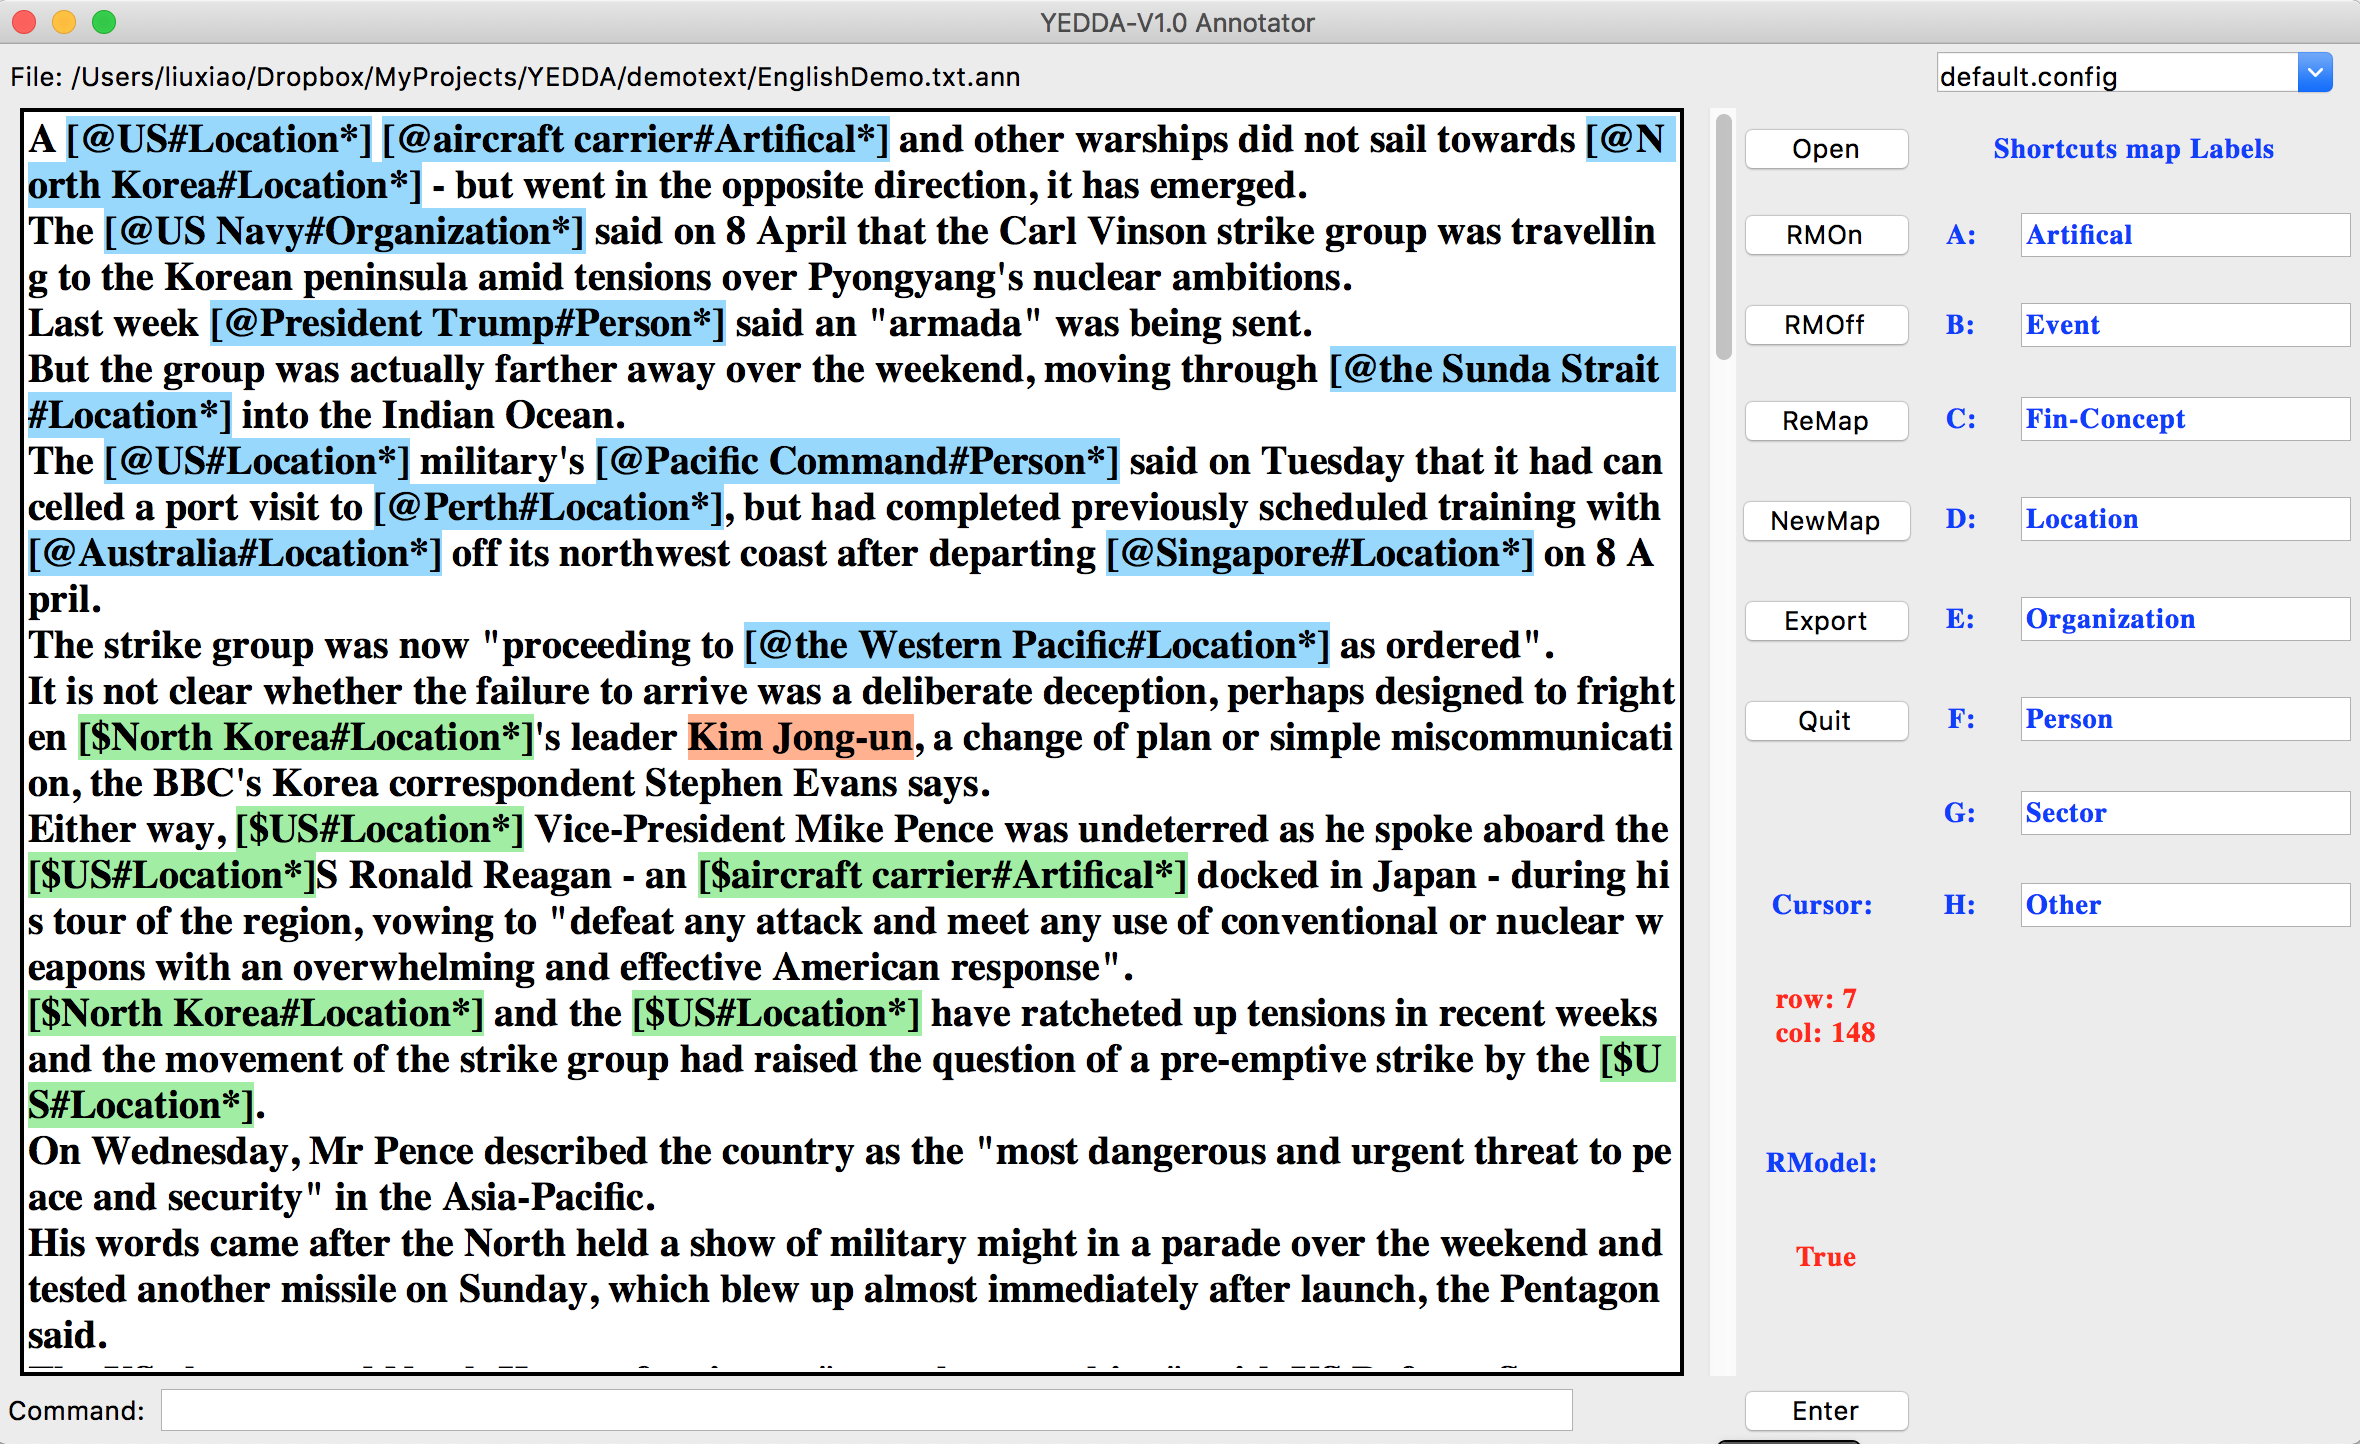
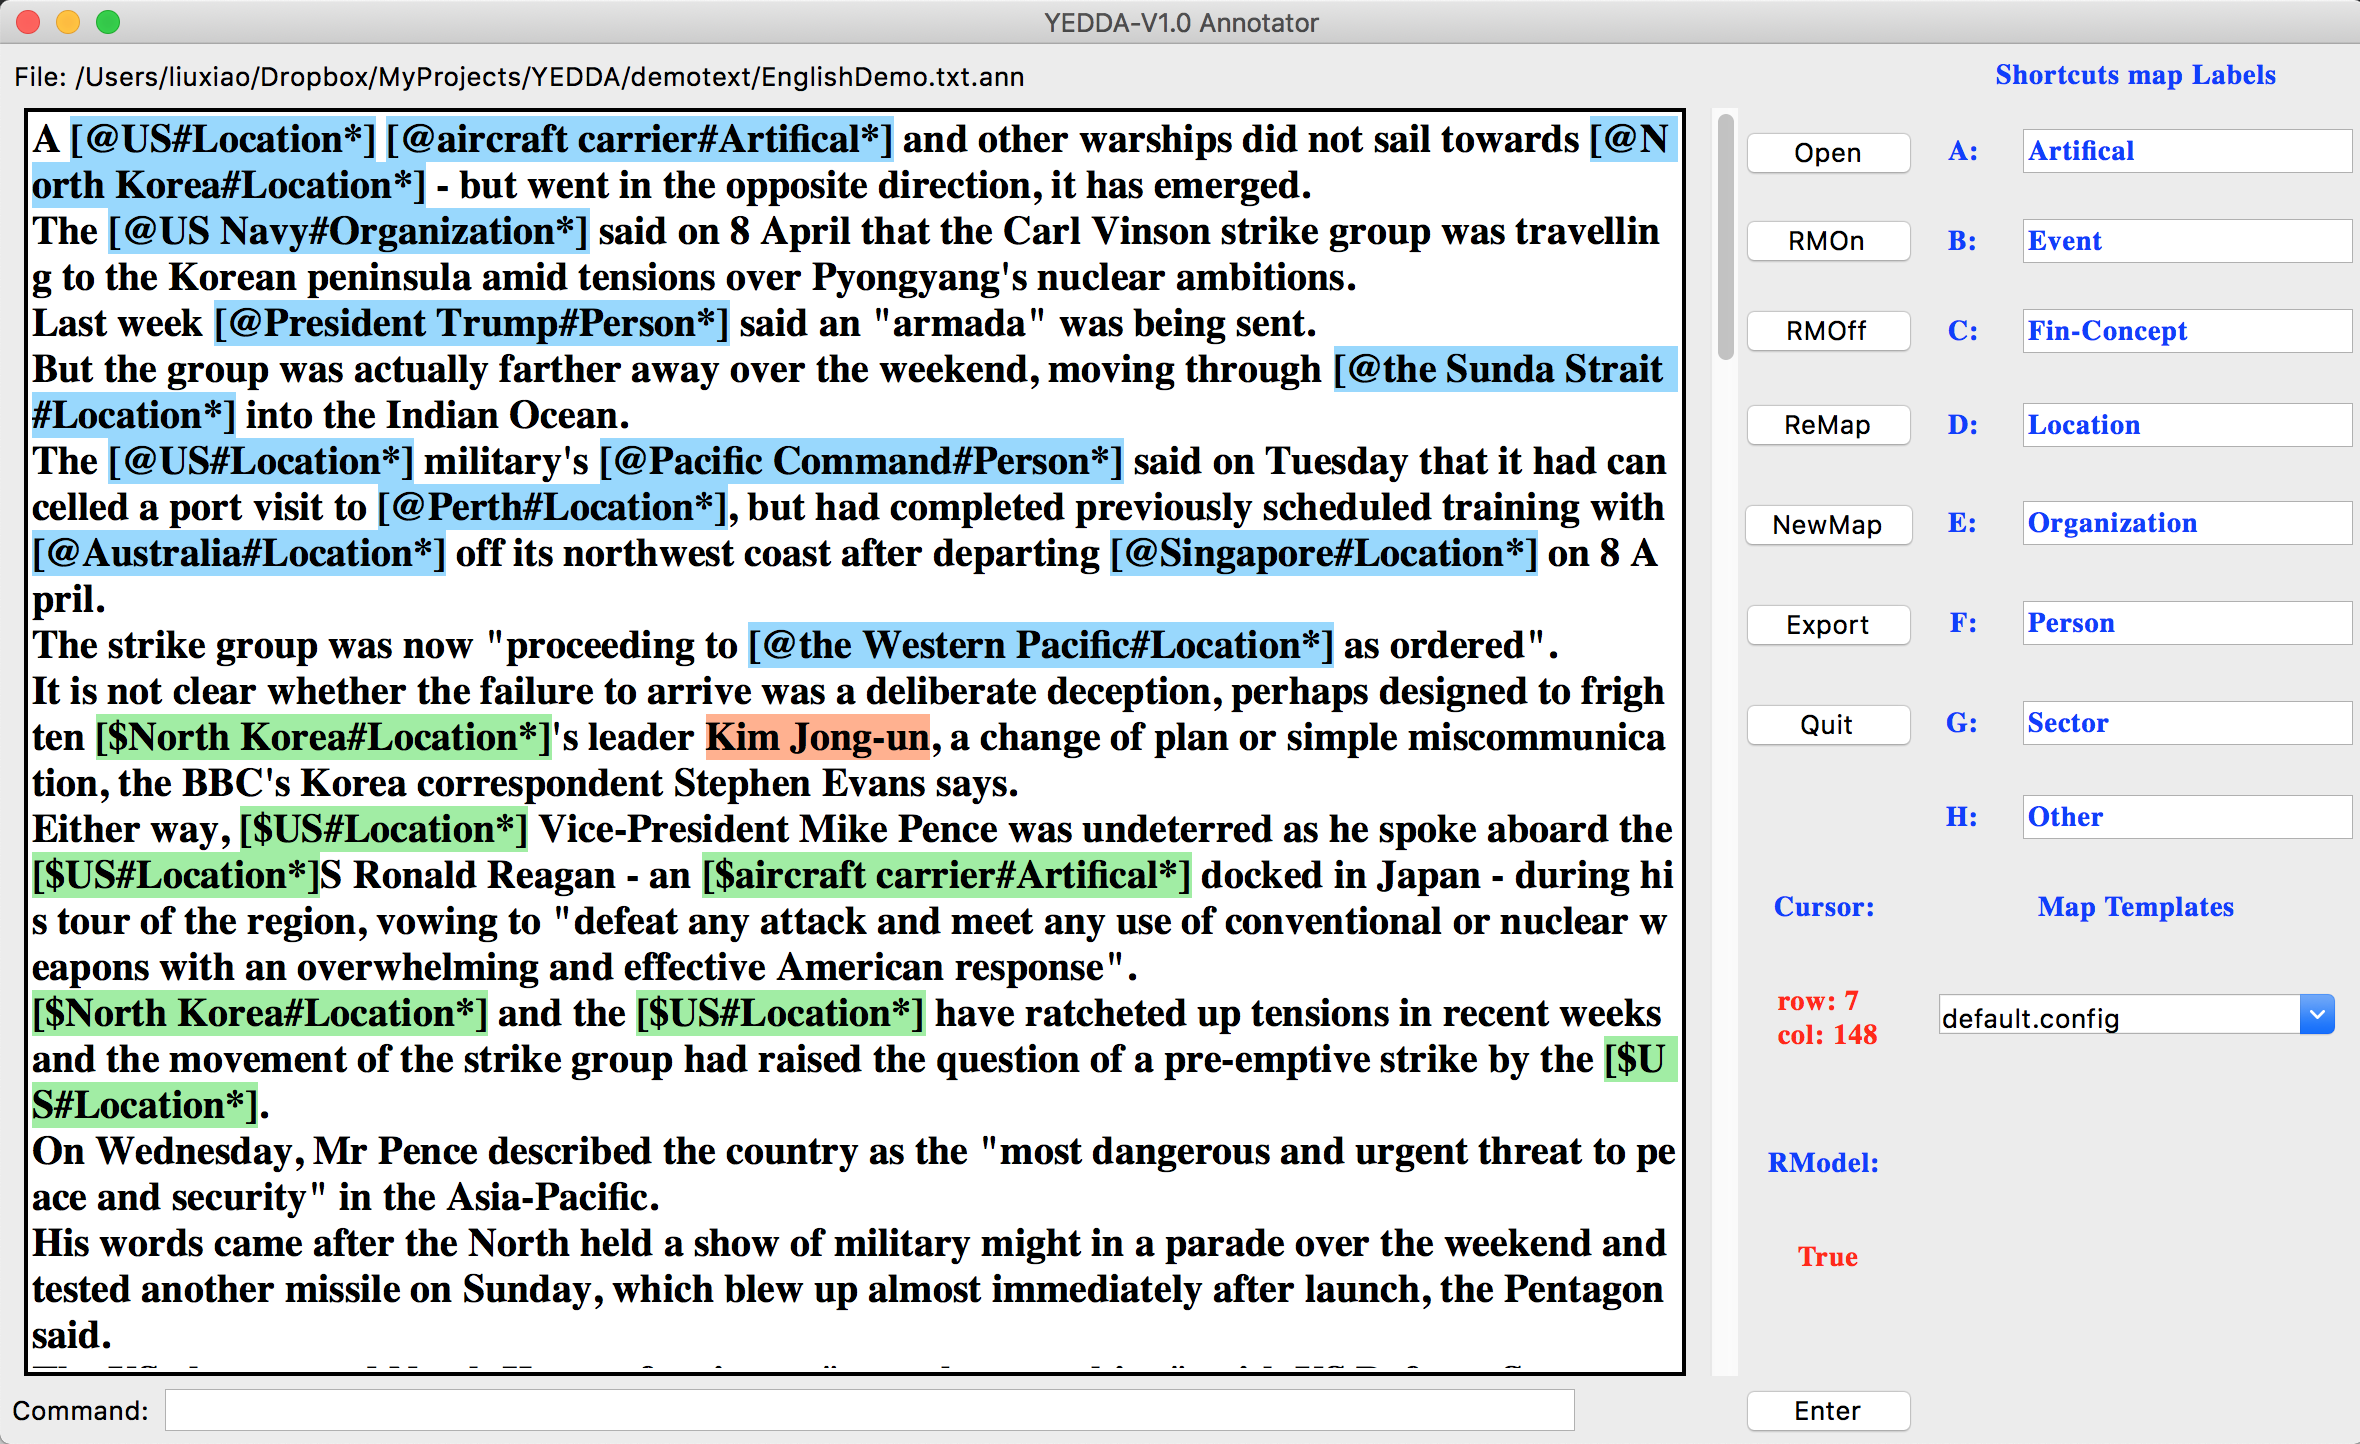
modify menu position

diff --git a/YEDDA_Annotator.py b/YEDDA_Annotator.py
@@ -44,6 +44,8 @@ class Example(Frame):
         self.controlCommand = {'q':"unTag", 'ctrl+z':'undo'}
         self.labelEntryList = []
         self.shortcutLabelList = []
+        self.configListLabel = None
+        self.configListBox = None
         # default GUI display parameter
         if len(self.pressCommand) > 20:
             self.textRow = len(self.pressCommand)
@@ -701,15 +703,10 @@ class Example(Frame):
                 self.pressCommand = pickle.load(fp)
         hight = len(self.pressCommand)
         width = 2
-        row = 1
-        configListBox = Combobox(self, values=getConfigList(), state='readonly')
-        configListBox.grid(row=0, column = self.textColumn +2,columnspan=2, rowspan = 1, padx = 6)
-        # select current config file
-        configListBox.set(self.configFile.split(os.sep)[-1])
-        # configListBox.pack()
-        configListBox.bind('<<ComboboxSelected>>', self.on_select)
+        row = 0
+
         mapLabel = Label(self, text ="Shortcuts map Labels", foreground="blue", font=(self.textFontStyle, 14, "bold"))
-        mapLabel.grid(row=1, column = self.textColumn +2,columnspan=2, rowspan = 1, padx = 10)
+        mapLabel.grid(row=0, column = self.textColumn +2,columnspan=2, rowspan = 1, padx = 10)
 
         # destroy all previous widgets before switching shortcut maps
         if self.labelEntryList is not None and type(self.labelEntryList) is type([]):
@@ -733,6 +730,18 @@ class Example(Frame):
             labelEntry.grid(row=row, column = self.textColumn +3, columnspan=1, rowspan = 1)
             self.labelEntryList.append(labelEntry)
             # print "row: ", row
+
+        if self.configListLabel is not None:
+            self.configListLabel.destroy()
+        if self.configListBox is not None:
+            self.configListBox.destroy()
+        self.configListLabel = Label(self, text="Map Templates", foreground="blue", font=(self.textFontStyle, 14, "bold"))
+        self.configListLabel.grid(row=row + 1, column=self.textColumn + 2, columnspan=2, rowspan=1, padx=10)
+        self.configListBox = Combobox(self, values=getConfigList(), state='readonly')
+        self.configListBox.grid(row=row + 2, column=self.textColumn + 2, columnspan=2, rowspan=1, padx=6)
+        # select current config file
+        self.configListBox.set(self.configFile.split(os.sep)[-1])
+        self.configListBox.bind('<<ComboboxSelected>>', self.on_select)
 
     def on_select(self, event=None):
         if event and self.debug:

diff --git a/README.md b/README.md
@@ -17,17 +17,16 @@ Interface:
 ====
 It provides both annotator interface for efficient annotatation and admin interface for result analysis.
 * Annotator Interface:
- ![alt text](https://github.com/jiesutd/SUTDAnnotator/blob/master/EnglishInterface.png "English Interface demo")
- ![alt text](https://github.com/jiesutd/SUTDAnnotator/blob/master/ChineseInterface.png "Chinese Interface demo")
+ ![alt text](EnglishInterface.png "English Interface demo")
+ ![alt text](ChineseInterface.png "Chinese Interface demo")
 * Administrator Interface:
- ![alt text](https://github.com/jiesutd/SUTDAnnotator/blob/master/AdminInterface.png "Administrator Interface demo")
+ ![alt text](AdminInterface.png "Administrator Interface demo")
 
 Use as an annotator ?
 ====
 * Start the interface: run `python YEDDA_Annotator.py`
-* Select a shortcut map from `./configs/` in the right top drop-down list
+* Select a shortcut map from `./configs/` in the right bottom drop-down list
 * Configure your shortcut map in the right side of annotation interface, you can leave other labels empty if the shortcut number is enough. For example: `a: Action; b: Loc; c: Cont`
-* Click the `ReMap` button to store the map setting
 * Click the `ReMap` button to overwrite and store the map setting, or click the `NewMap` button to store the map setting in a new file under `./configs/`
 * Click `Open` button and select your input file. (You may set your file name ended with .txt or .ann if possible)
 
@@ -40,7 +39,7 @@ Intelligent recommendation:
 * If recommendation model is enabled, system will recommend entities based on the annotated text. Recommendation span is formatted as  `[$the text span＃Location*]`in green color. (Notice the difference of annotated and recommended span, the former starts with `[@` while the later starts with `[$`)
 
 The annotated results will be stored synchronously. Annotated file is located at the same directory with origin file with the name of ***"origin name + .ann"***
-Please also note that the shortcut map can be switched seamlessly in the right top drop-down list
+Please also note that the shortcut map can be switched seamlessly in the right bottom drop-down list
 
 Use as an administrator ?
 ====
@@ -48,10 +47,10 @@ YEDDA provides a simple interface for administartor to evaluate and analyze anno
 * Start the interface: run `python YEDDA_Admin.py`
 * Multi-Annotator Analysis: press button `Multi-Annotator Analysis` and select multiple annotated `*.ann` files, it will give f-measure matrix among all annotators. The result matrix is shown below:
 
- ![alt text](https://github.com/jiesutd/SUTDAnnotator/blob/master/resultMatrix.png "Result Maxtix")
+ ![alt text](resultMatrix.png "Result Maxtix")
 * Pairwise Annotators Comparison: press button `Pairwise Comparison` and select two annotated `*.ann` files, it will generate a specific comparison report (in `.tex` format, can be compiled as `.pdf` file). The demo pdf file is shown below:
 
-![alt text](https://github.com/jiesutd/SUTDAnnotator/blob/master/detailReport.png "Detail Report")
+![alt text](detailReport.png "Detail Report")
 
 
 Important features:
@@ -97,4 +96,3 @@ Updating...
 * 2016-Mar-01, (V 0.3): fix export bug (bug: set space when sentence didn't include any effective label).
 * 2016-Jan-11, (V 0.2): add sequence format export function.
 * 2016-Jan-09, (V 0.1): init version.
-
